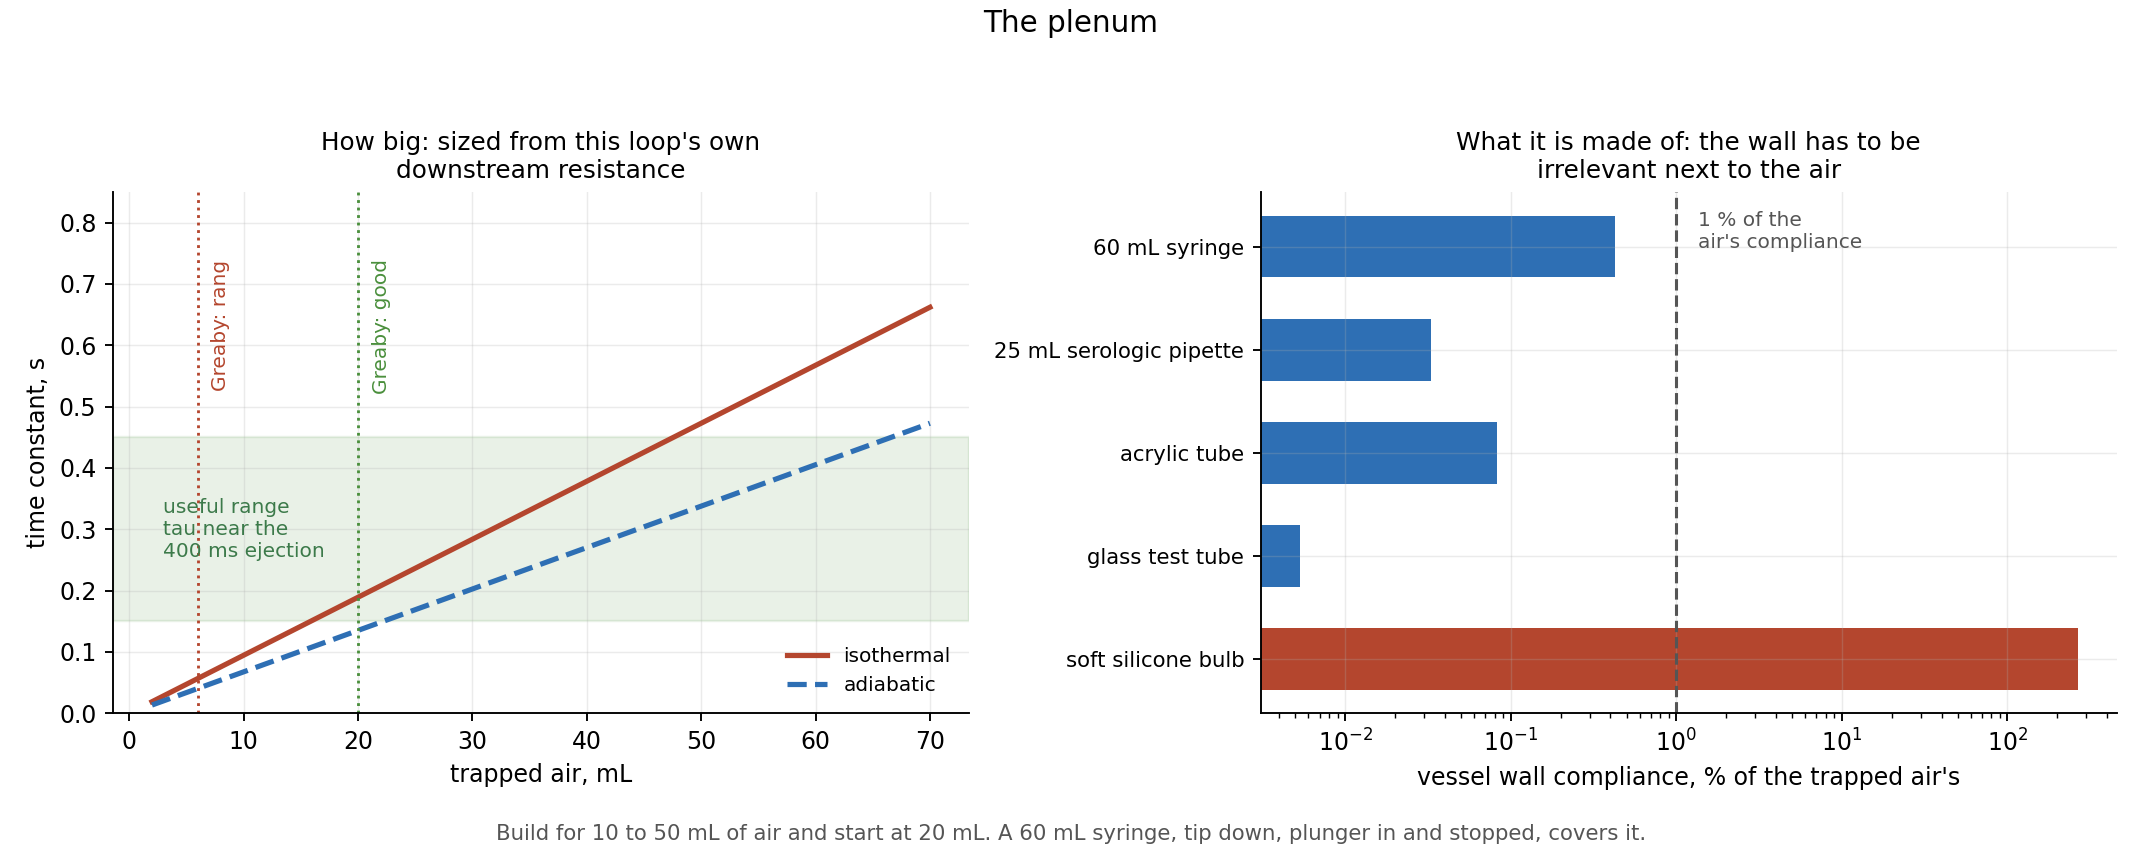
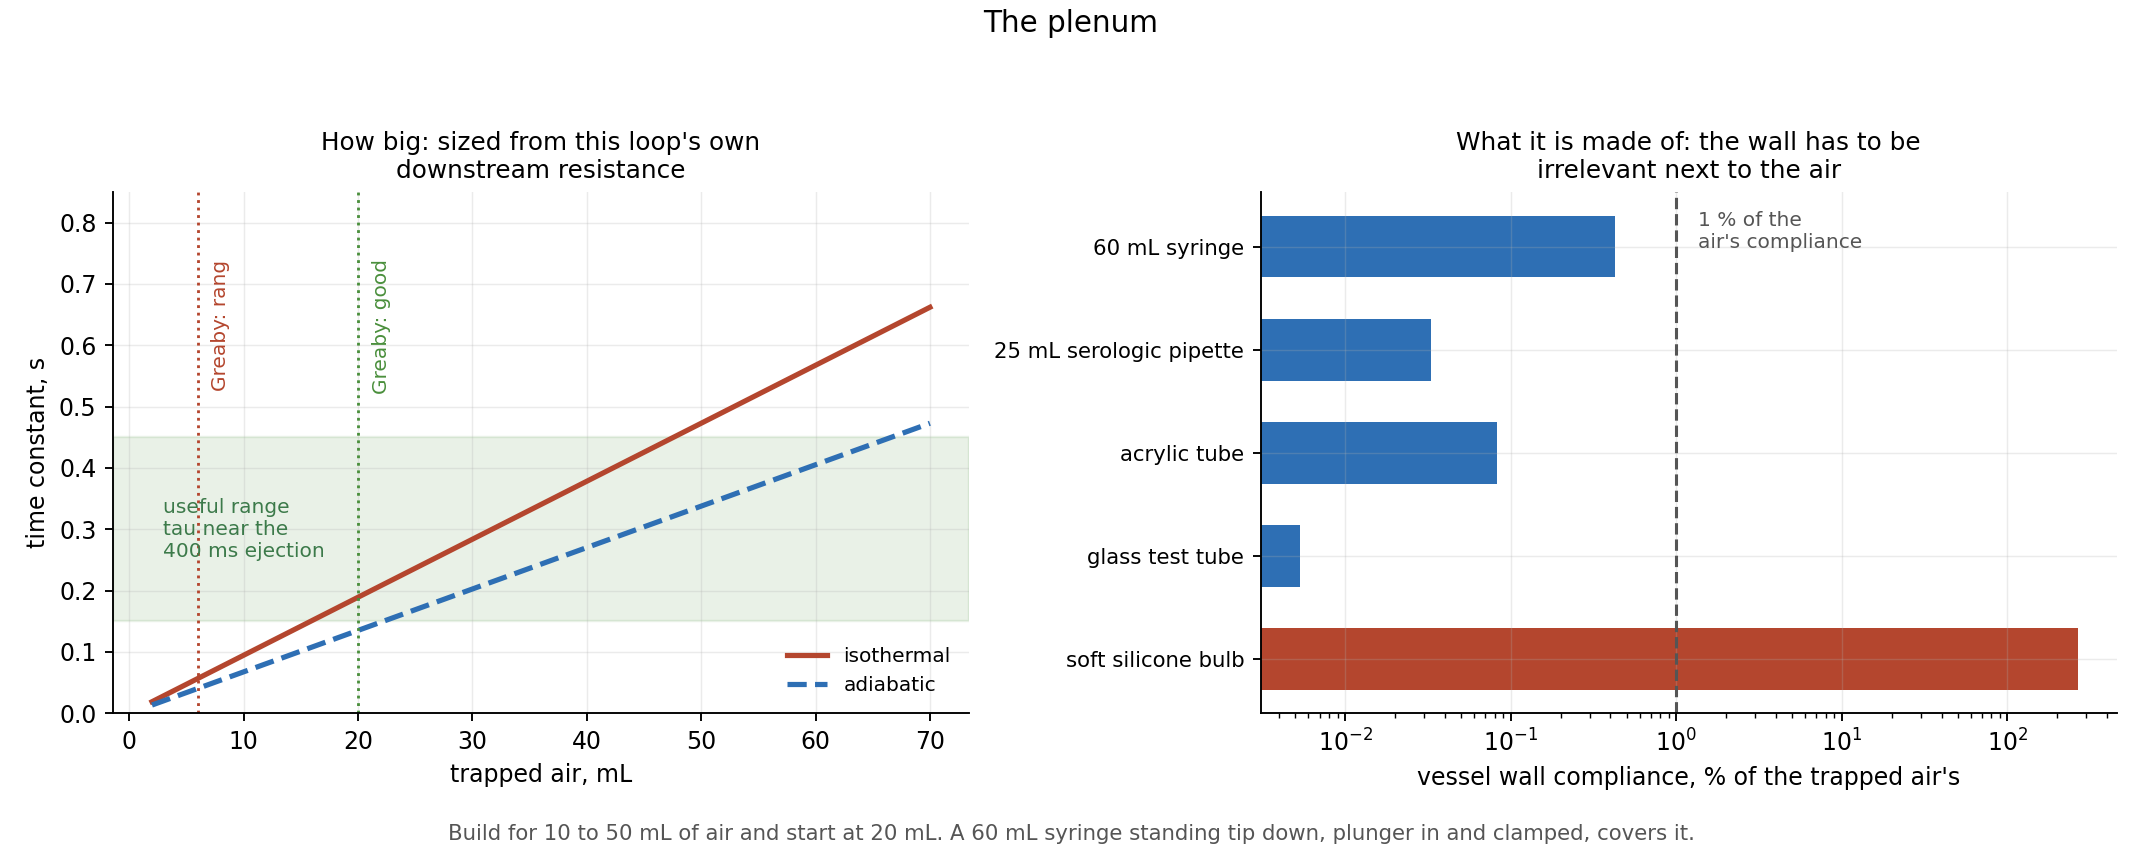
Say "clamped", not "blocked": one word away from meaning the opposite
The plenum note said the syringe plunger was "blocked so it cannot creep". In
a flow loop, next to a part everyone calls "the block", that reads as the
syringe being plugged. It is the opposite: the tip stands OPEN to the loop
and the plenum does nothing at all if it is not, because fluid has to get in
and out of the barrel for the air above it to do any work.

So the wording is now "the plunger stays in and gets CLAMPED so it cannot
slide", everywhere it appeared, and plenum.py carries a short paragraph
saying outright that nothing is plugged and what each part of the assembly is
doing: fluid rises into the barrel from the tip, air sits above it, the
plunger seals the top, and clamping stops the plunger SLIDING rather than
closing any path.

Also adds the thing that will actually bite during a long sweep: air
dissolves into the fluid over hours, so the level creeps up and the air
volume quietly shrinks, which moves the compliance mid-experiment. The
graduations are how that gets caught and the plunger is how it gets put back
without opening anything. Read it at the start and end of every sweep point.

Changed region(s): [[0.2157, 0.9482, 0.7703, 1.0]]

diff --git a/flow/plenum.py b/flow/plenum.py
@@ -117,7 +117,20 @@ def main():
     A("  the plunger sees about %.0f N, which is the same order as its own"
       % (H.RHO * H.G * H.TANK_MM * 1e-3 * math.pi * (26.5e-3 / 2) ** 2))
     A("  breakout friction, so it WILL creep over a long run if it is not")
-    A("  stopped. A block behind the thumb rest is enough.")
+    A("  held. A clamp on the rod, or a collar behind the thumb rest.")
+    A("")
+    A("  NOTHING IS PLUGGED. The syringe stands tip DOWN and OPEN to the")
+    A("  loop: fluid rises into the barrel from the tip, air sits above it,")
+    A("  and the plunger seals the top. Clamping the plunger stops it")
+    A("  SLIDING, it does not close the fluid path. If the tip were blocked")
+    A("  the plenum would do nothing at all, because nothing could get in")
+    A("  and out of it, and that is the whole mechanism.")
+    A("")
+    A("  ONE THING TO WATCH over a long run: air dissolves into the fluid,")
+    A("  so the level creeps up and the air volume quietly shrinks, which")
+    A("  moves the compliance mid-experiment. The graduations are how you")
+    A("  catch it, and the plunger is how you put it back without opening")
+    A("  anything. Read it at the start and end of every sweep point."),
     A("")
 
     # ------------------------------------------------------------- sizing
@@ -248,7 +261,7 @@ def main():
     fig.suptitle("The plenum", fontsize=12.5, y=0.99)
     fig.text(0.5, 0.012,
              "Build for 10 to 50 mL of air and start at 20 mL. A 60 mL "
-             "syringe, tip down, plunger in and stopped, covers it.",
+             "syringe standing tip down, plunger in and clamped, covers it.",
              fontsize=9, color="#555", ha="center")
     fig.tight_layout(rect=(0, 0.04, 1, 0.94))
     fig.savefig(os.path.join(HERE, "plenum.png"), facecolor="white")

diff --git a/flow/bom.py b/flow/bom.py
@@ -89,14 +89,18 @@ BOM = [
             "at 3.18 mm is the commodity equivalent and fits a 1/8 in barb"),
 
     ("FLUID INTERFACE", 1, "60 mL syringe, for the PLENUM",
-     "vertical, tip down, plunger in and STOPPED", "BUY",
+     "stands tip down and OPEN to the loop, plunger CLAMPED", "BUY",
      "rigid and clear and graduated, so the air volume is both the setting "
      "and the reading. Its own wall is 0.4 percent of the air's compliance, "
      "which is the margin you want. Build for 10 to 50 mL of trapped air "
      "and start at 20. A soft bulb would be 265 percent and the knob would "
      "stop working. The luer tip meets the barb-to-luer adapter already "
      "listed. At 1.8 psi the plunger sees about 7 N, the same order as its "
-     "own breakout friction, so block it or it creeps. See plenum.py"),
+     "own breakout friction, so clamp the rod or it creeps. Nothing is "
+     "plugged: the tip stays open, fluid rises into the barrel, air sits "
+     "above it, and clamping stops the plunger SLIDING. Air dissolves into "
+     "the fluid over hours, so re-read the graduations each sweep point. "
+     "See plenum.py"),
 
     ("INSTRUMENTS", 2, "the single-inlet modules already on the shelf",
      "gauge, check rate / range / media before trusting", "CHECK",

diff --git a/flow/one_pager.py b/flow/one_pager.py
@@ -324,11 +324,12 @@ def main():
     fig.text(0.700, 0.212, "THE PLENUM IS THE EXPERIMENT", fontsize=12.5,
              color=HOT, fontweight="bold")
     fig.text(0.700, 0.190,
-             "A 60 mL syringe, tip down, plunger in and\n"
-             "blocked so it cannot creep. Build for 10 to 50\n"
-             "mL of air, start at 20, where Greaby landed.\n"
-             "Sweeping it against R2 is the deliverable:\n"
-             "with no air the loop is too peaky, PI 1.55.",
+             "A 60 mL syringe standing tip down, open to the\n"
+             "loop, with air trapped above the fluid. The\n"
+             "plunger stays in and gets CLAMPED so it cannot\n"
+             "slide. Move it to set the air: 10 to 50 mL, start\n"
+             "at 20, where Greaby landed. Sweeping it against\n"
+             "R2 is the deliverable.",
              fontsize=10.5, color=HOT, va="top", linespacing=1.5)
 
     fig.text(0.5, 0.044,
